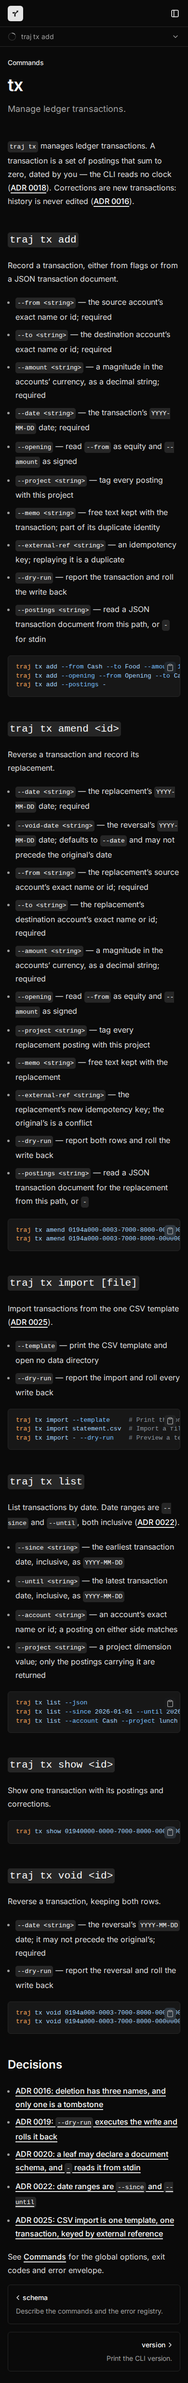
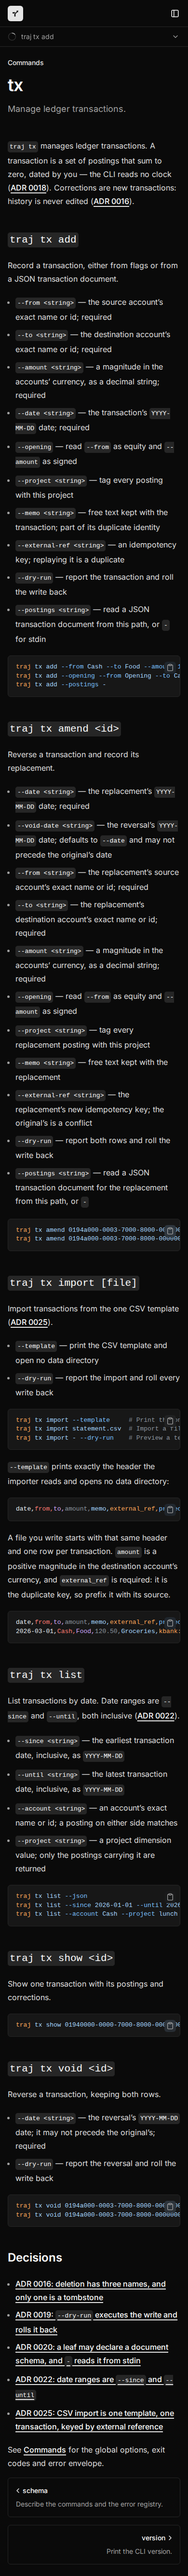
docs: show the CSV import template on the tx page (#144)
The tx page documented the command that prints the template and never showed
it. It now prints the header as the command does, then a filled file, and
verify:build fails with IMPORT_TEMPLATE_NOT_SHOWN if the page loses the
header as code.

Closes #118
Closes #119
Closes #120

Changed region(s): [[0.0308, 0.0, 0.9538, 0.9974]]

diff --git a/src/lib/build/import-template.test.ts b/src/lib/build/import-template.test.ts
@@ -1,0 +1,71 @@
+import { describe, expect, test } from "bun:test"
+import type { BuiltFile } from "./built-files"
+import { checkImportTemplate, IMPORT_TEMPLATE_HEADER } from "./import-template"
+
+const PAGE = "docs/cli/commands/tx/index.html"
+
+/** The header as the highlighter ships it: one line split into a `<span>` per token. */
+const HIGHLIGHTED = [
+	'<span class="line">',
+	'<span style="--shiki-dark:#FFA657">date</span>',
+	'<span style="--shiki-dark:#A5D6FF">,from</span>',
+	'<span style="--shiki-dark:#A5D6FF">,to</span>',
+	'<span style="--shiki-dark:#79C0FF">,amount</span>',
+	'<span style="--shiki-dark:#A5D6FF">,memo</span>',
+	'<span style="--shiki-dark:#A5D6FF">,external_ref</span>',
+	'<span style="--shiki-dark:#A5D6FF">,project</span>',
+	"</span>",
+].join("")
+
+function codesOf(files: readonly BuiltFile[]): readonly string[] {
+	return checkImportTemplate(files).map((failure) => failure.code)
+}
+
+function page(content: string): BuiltFile {
+	return { path: PAGE, content }
+}
+
+describe("the import template the tx page shows", () => {
+	test("the header inside a code block reports no failure", () => {
+		expect(codesOf([page(`<pre><code>${IMPORT_TEMPLATE_HEADER}</code></pre>`)])).toEqual([])
+	})
+
+	test("the header split into highlighted spans inside a code block reports no failure", () => {
+		expect(codesOf([page(`<pre><code>${HIGHLIGHTED}</code></pre>`)])).toEqual([])
+	})
+
+	test("a header that appears only in prose is reported as IMPORT_TEMPLATE_NOT_SHOWN", () => {
+		expect(codesOf([page(`<p>${IMPORT_TEMPLATE_HEADER}</p>`)])).toEqual([
+			"IMPORT_TEMPLATE_NOT_SHOWN",
+		])
+	})
+
+	test("a page with no header is reported as IMPORT_TEMPLATE_NOT_SHOWN", () => {
+		expect(codesOf([page("<p>Import transactions from the one CSV template.</p>")])).toEqual([
+			"IMPORT_TEMPLATE_NOT_SHOWN",
+		])
+	})
+
+	test("a header on another page does not stand in for the tx page", () => {
+		expect(
+			codesOf([
+				page("<p>Import transactions from the one CSV template.</p>"),
+				{
+					path: "docs/cli/index.html",
+					content: `<pre><code>${IMPORT_TEMPLATE_HEADER}</code></pre>`,
+				},
+			]),
+		).toEqual(["IMPORT_TEMPLATE_NOT_SHOWN"])
+	})
+
+	test("a build with no tx page is reported as IMPORT_TEMPLATE_NOT_SHOWN", () => {
+		const [failure] = checkImportTemplate([])
+
+		expect(failure?.code).toBe("IMPORT_TEMPLATE_NOT_SHOWN")
+		expect(failure?.message).toContain("did not produce")
+	})
+
+	test("the header constant is the seven-column wire contract", () => {
+		expect(IMPORT_TEMPLATE_HEADER).toBe("date,from,to,amount,memo,external_ref,project")
+	})
+})

diff --git a/src/lib/build/import-template.ts b/src/lib/build/import-template.ts
@@ -1,0 +1,46 @@
+import type { BuiltFile } from "./built-files"
+import { fileAt } from "./built-files"
+import type { BuildFailure } from "./failures"
+import { buildFailure } from "./failures"
+
+/** The one CSV template header `traj tx import --template` prints, copied from cli ADR 0025. */
+export const IMPORT_TEMPLATE_HEADER = "date,from,to,amount,memo,external_ref,project"
+
+/** Assets-root path of the built `tx` command page. */
+const TX_PAGE_FILE = "docs/cli/commands/tx/index.html"
+
+const PRE = /<pre\b[^>]*>([\s\S]*?)<\/pre>/gi
+const TAG = /<[^>]*>/g
+const WHITESPACE = /\s+/
+
+/** The text of every code block on the page, with the highlighter's tags stripped. */
+function codeTexts(content: string): readonly string[] {
+	return [...content.matchAll(PRE)].map((match) => (match[1] ?? "").replace(TAG, ""))
+}
+
+/** Whether one code block carries the header as a line of its own. */
+function showsHeader(content: string): boolean {
+	return codeTexts(content).some((text) => text.split(WHITESPACE).includes(IMPORT_TEMPLATE_HEADER))
+}
+
+/** Failures for a `tx` page that is missing, or that does not show the import template as code. */
+export function checkImportTemplate(files: readonly BuiltFile[]): readonly BuildFailure[] {
+	const page = fileAt(files, TX_PAGE_FILE)
+	if (page === undefined) {
+		return [
+			buildFailure(
+				"IMPORT_TEMPLATE_NOT_SHOWN",
+				TX_PAGE_FILE,
+				"the build did not produce the tx command page",
+			),
+		]
+	}
+	if (showsHeader(page.content)) return []
+	return [
+		buildFailure(
+			"IMPORT_TEMPLATE_NOT_SHOWN",
+			TX_PAGE_FILE,
+			`the page does not show "${IMPORT_TEMPLATE_HEADER}" inside a code block`,
+		),
+	]
+}

diff --git a/src/lib/build/index.test.ts b/src/lib/build/index.test.ts
@@ -58,12 +58,28 @@ const COMPLETE_BUILD: readonly BuiltFile[] = [
 	alias("docs/builders/index.html", "/docs/developers/"),
 	page("docs/index.html", LANDING_PAGE),
 	page("docs/cli/index.html", OPERATOR_TAB_PAGE),
+	page(
+		"docs/cli/commands/tx/index.html",
+		[
+			'<html data-theme="dark">',
+			'<header id="nd-subnav"><a href="/docs/" aria-label="Trajectonomics Docs"><svg></svg></a></header>',
+			"<pre><code>date,from,to,amount,memo,external_ref,project</code></pre>",
+			"</html>",
+		].join(""),
+	),
 	{
 		path: "docs/api/search.json",
 		content: JSON.stringify({
 			type: "advanced",
-			internalDocumentIDStore: { internalIdToId: ["/docs/cli"] },
-			docs: { docs: { "1": { page_id: "/docs/cli", type: "page" } } },
+			internalDocumentIDStore: {
+				internalIdToId: ["/docs/cli", "/docs/cli/commands/tx"],
+			},
+			docs: {
+				docs: {
+					"1": { page_id: "/docs/cli", type: "page" },
+					"2": { page_id: "/docs/cli/commands/tx", type: "page" },
+				},
+			},
 		}),
 	},
 ]
@@ -84,6 +100,7 @@ describe("the check of the built Docs Portal", () => {
 			"REDIRECT_TO_OPERATOR_TAB",
 			"TAB_ALIAS_MISSING",
 			"TAB_ALIAS_MISSING",
+			"IMPORT_TEMPLATE_NOT_SHOWN",
 		])
 	})
 })

diff --git a/src/lib/build/check-build.ts b/src/lib/build/check-build.ts
@@ -2,6 +2,7 @@ import type { BuiltFile } from "./built-files"
 import type { BuildFailure } from "./failures"
 import { checkHeaderMark } from "./header-mark"
 import { checkHeaderTabs } from "./header-tabs"
+import { checkImportTemplate } from "./import-template"
 import { checkLandingPage } from "./landing-page"
 import { checkNotFoundPage } from "./not-found"
 import { checkPlaceholderCopy } from "./placeholder-copy"
@@ -32,6 +33,7 @@ export function checkBuild(
 		...checkSidebarTitles(files),
 		...checkTocPlaceholder(files),
 		...checkPlaceholderCopy(files),
+		...checkImportTemplate(files),
 		...checkTheme(files),
 	]
 }

diff --git a/src/lib/build/failures.ts b/src/lib/build/failures.ts
@@ -25,6 +25,7 @@ export type BuildFailureCode =
 	| "SIDEBAR_TAB_TITLE_LINK"
 	| "TOC_PLACEHOLDER_PRESENT"
 	| "PLACEHOLDER_COPY_PRESENT"
+	| "IMPORT_TEMPLATE_NOT_SHOWN"
 	| "THEME_NOT_DARK"
 	| "THEME_LIGHT_CLASS"
 	| "THEME_TOGGLE_PRESENT"
